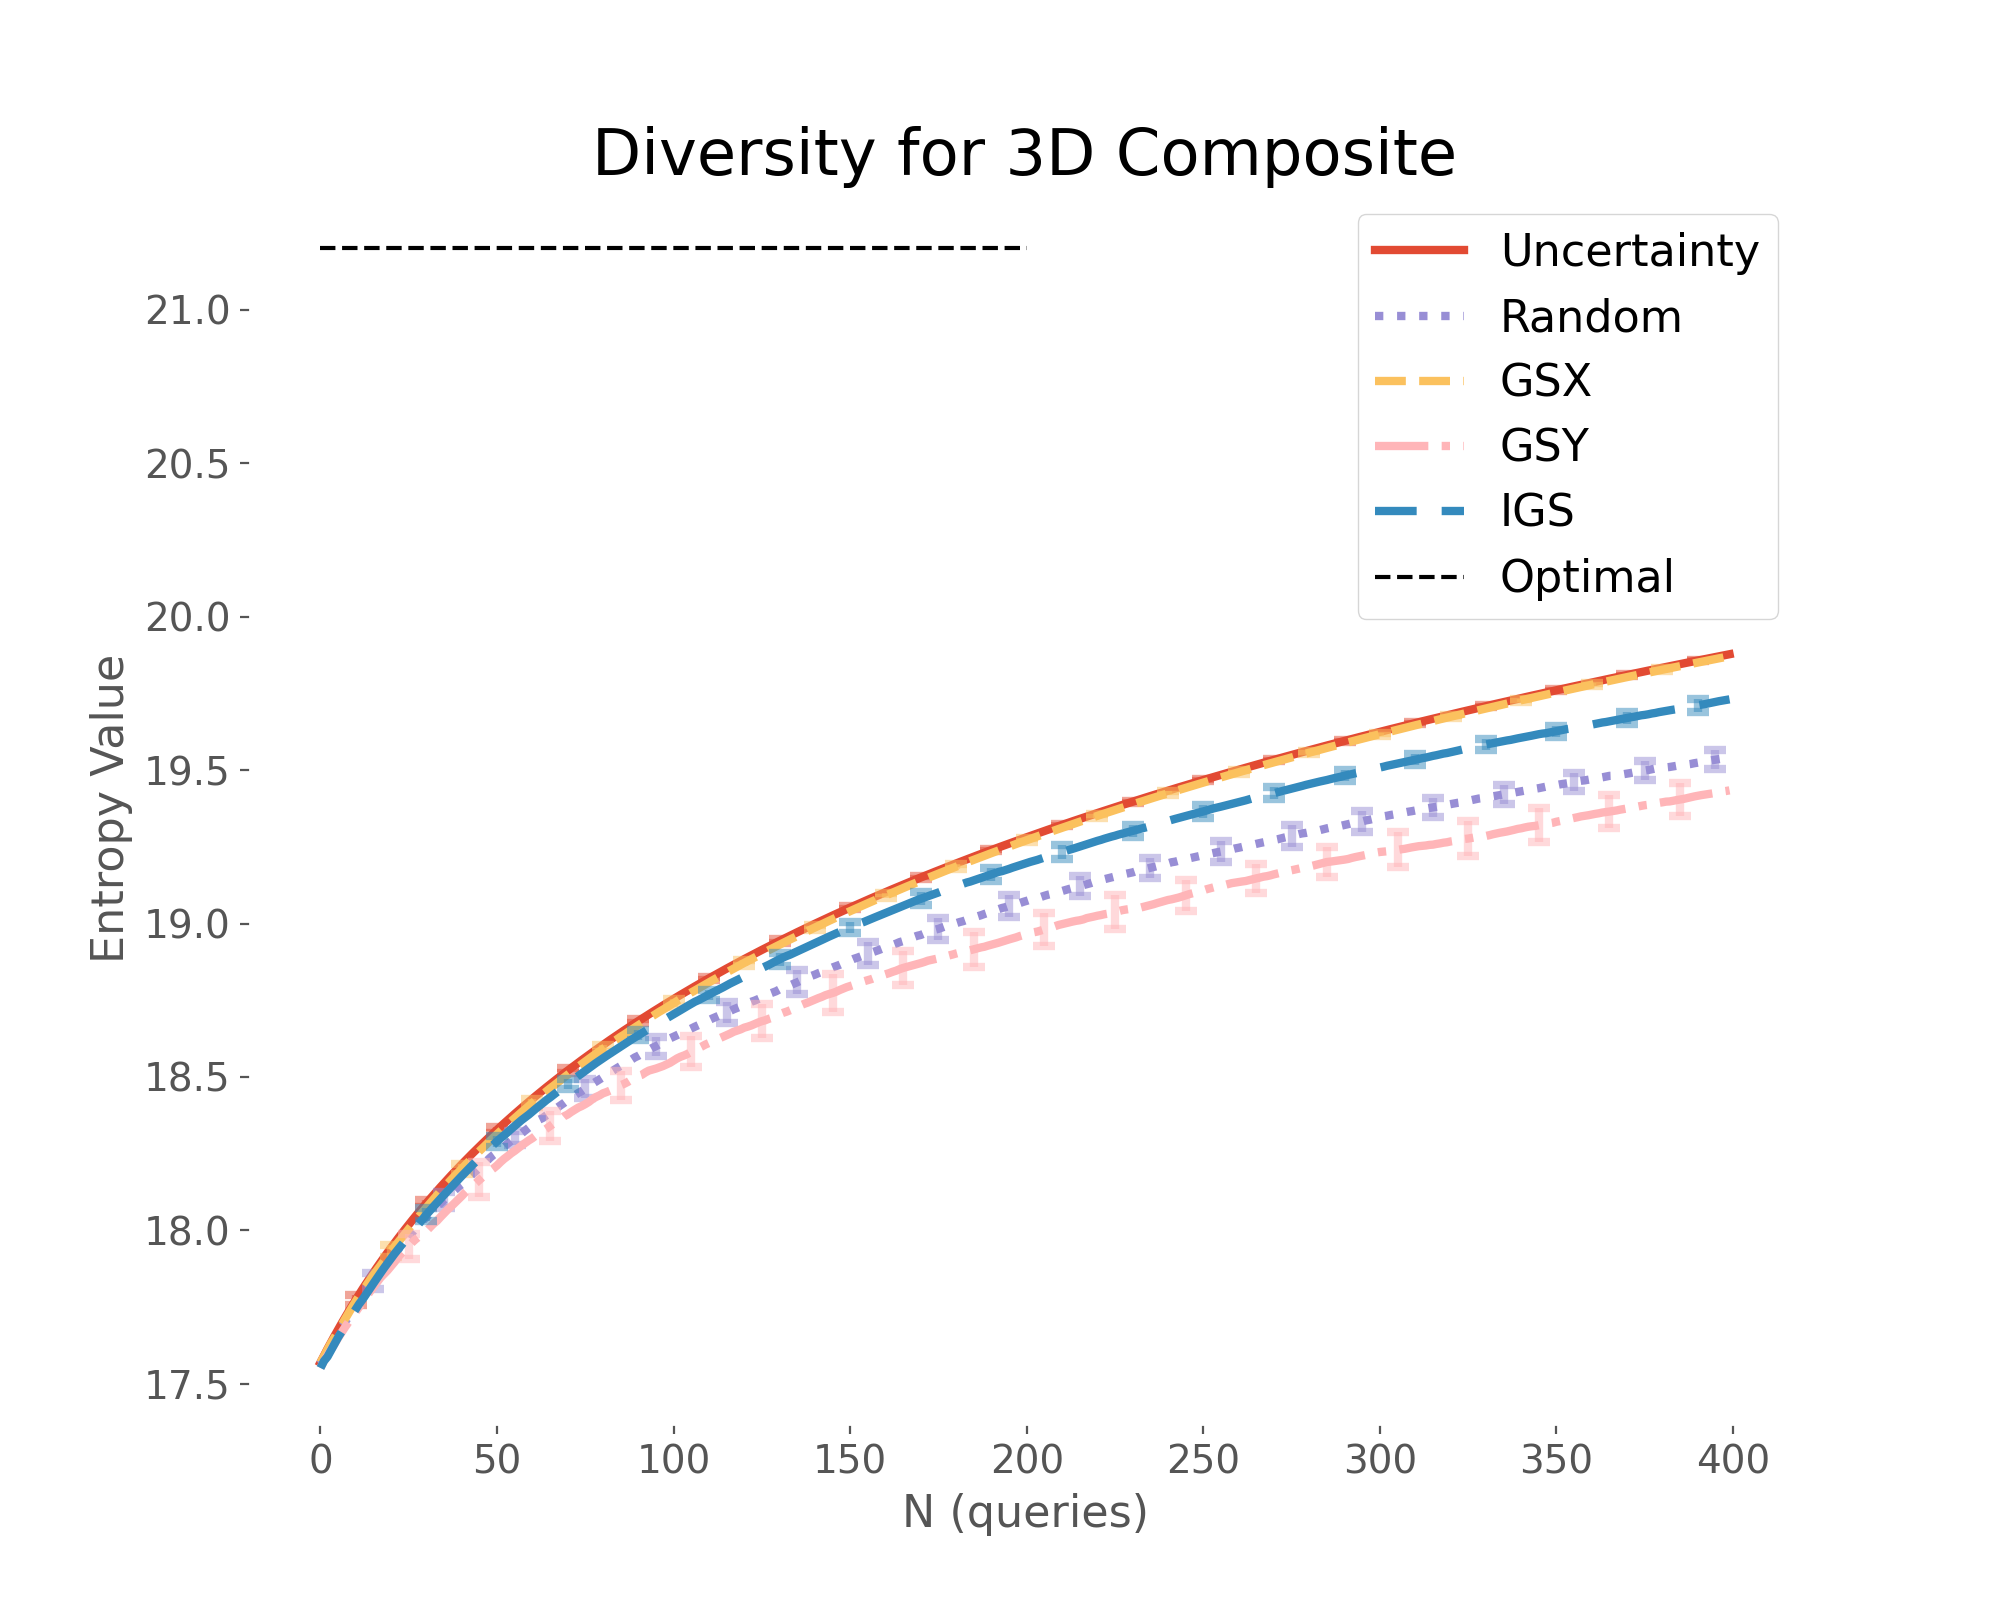
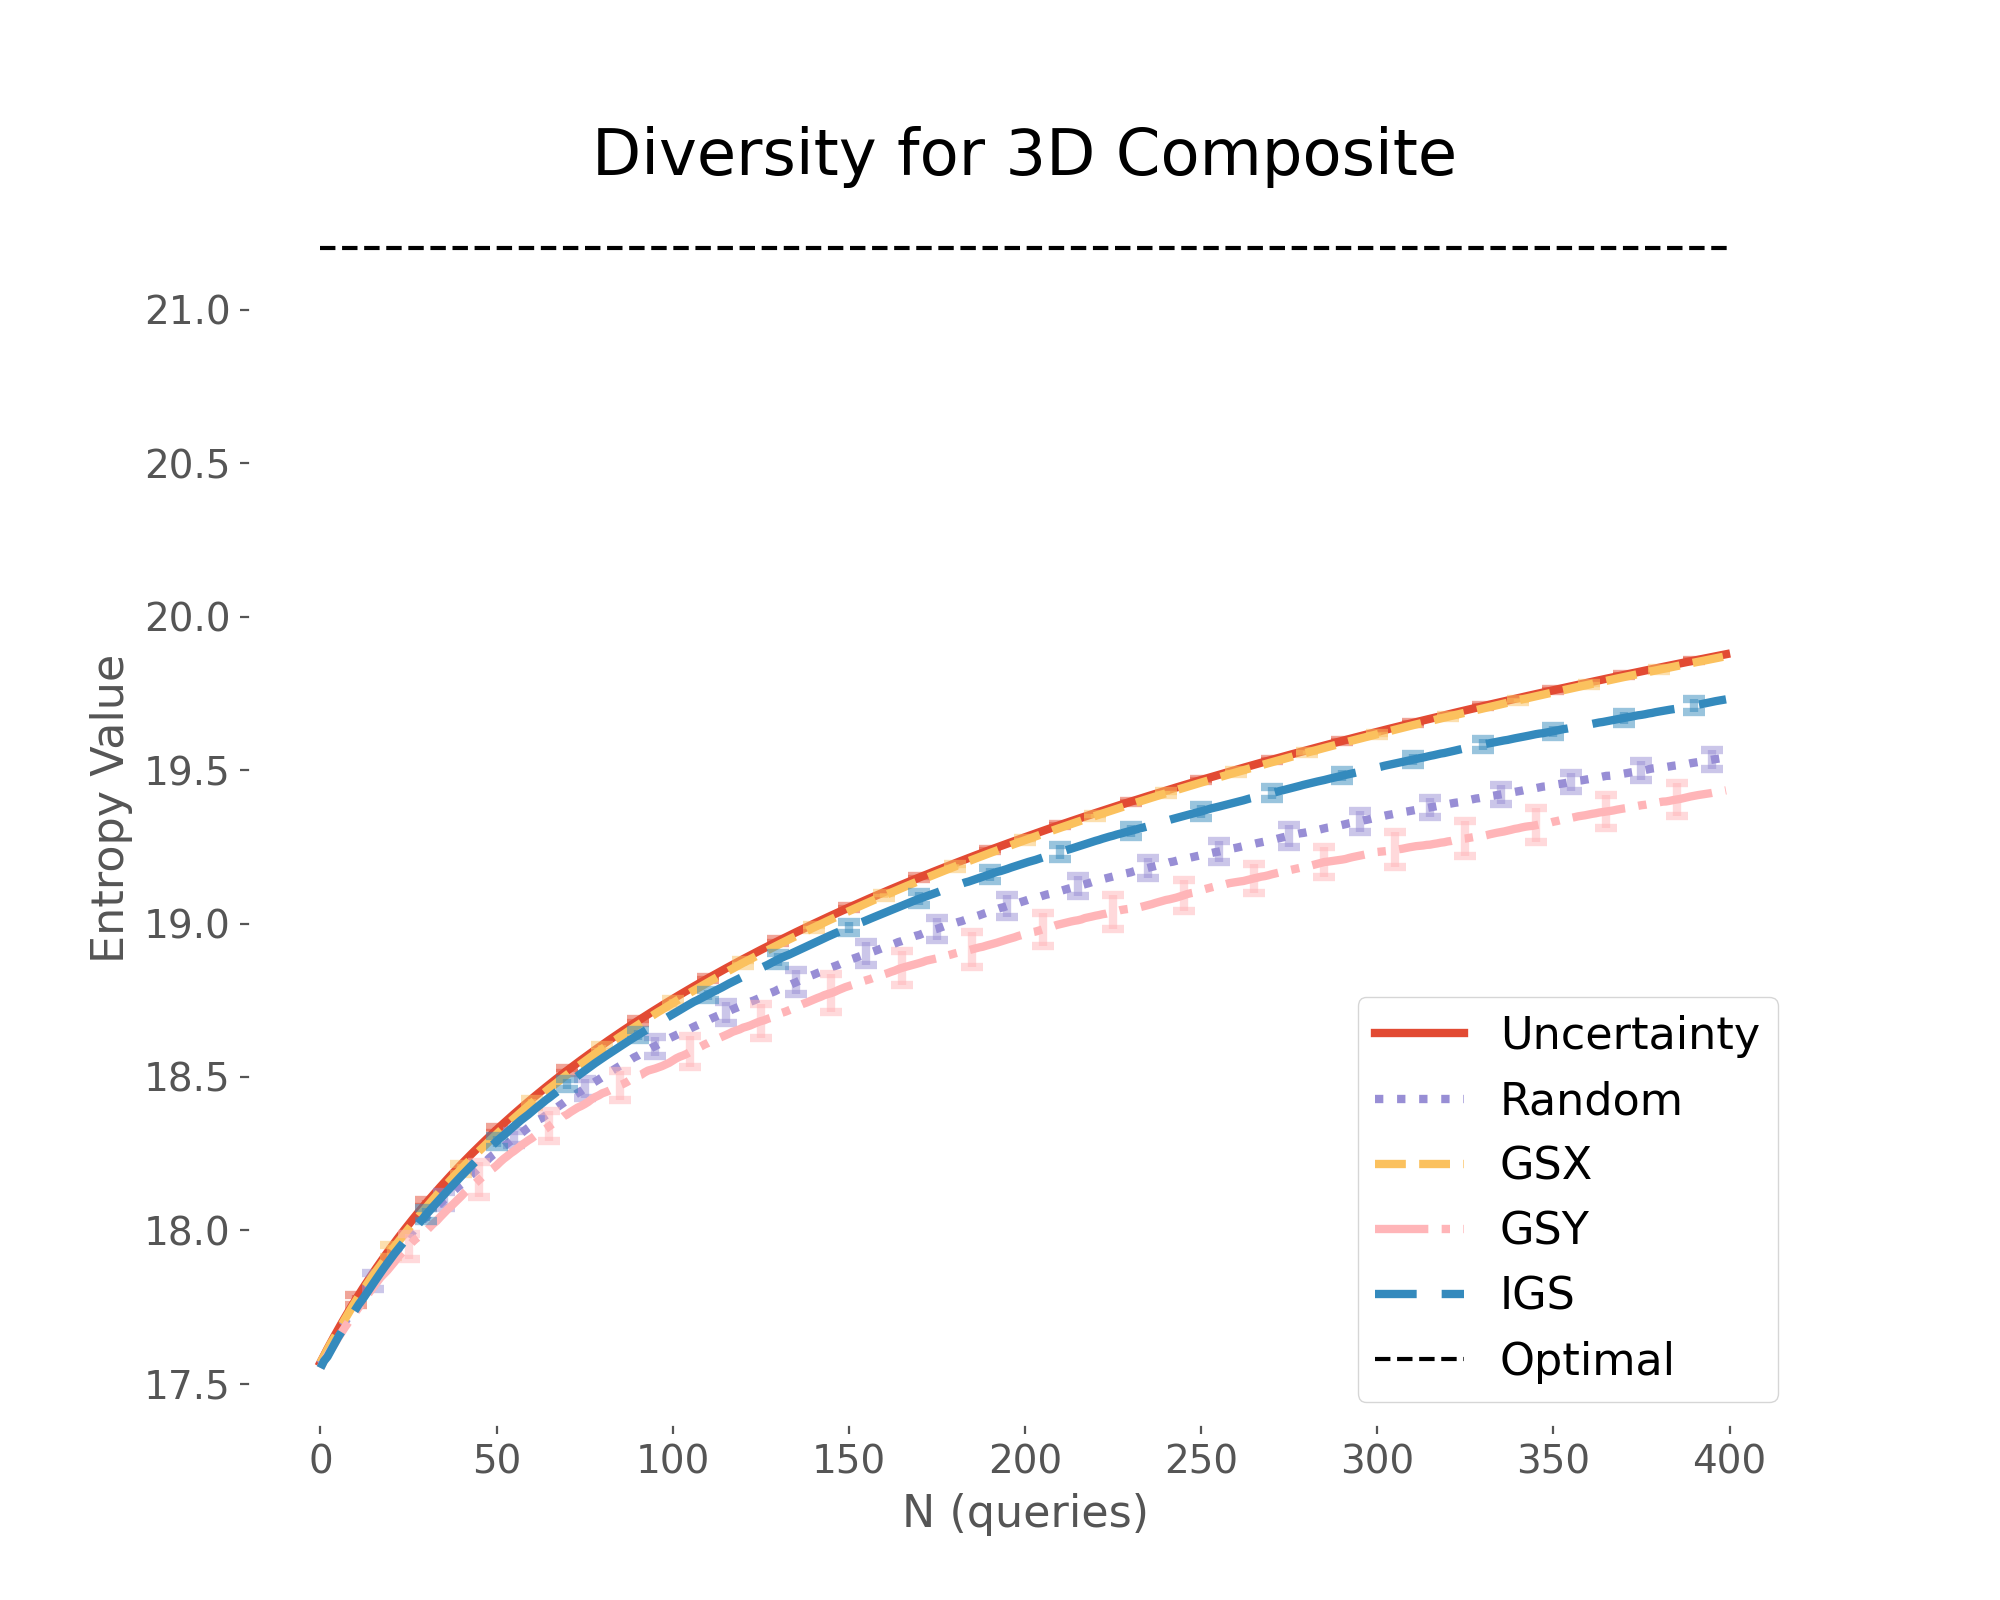
update plot diversity in 3D

diff --git a/3D/calc-diversity.md b/3D/calc-diversity.md
@@ -164,7 +164,7 @@ def plot_diversity(scores, opt=None, error_freq=20, ylog=False):
         offset += 5
         
     if opt is not None:
-        xx = [0, 50, 100, 150, 200]
+        xx = [0, 100, 200, 300, 400]
         yy = [opt] * len(xx)
         
         if ylog:
